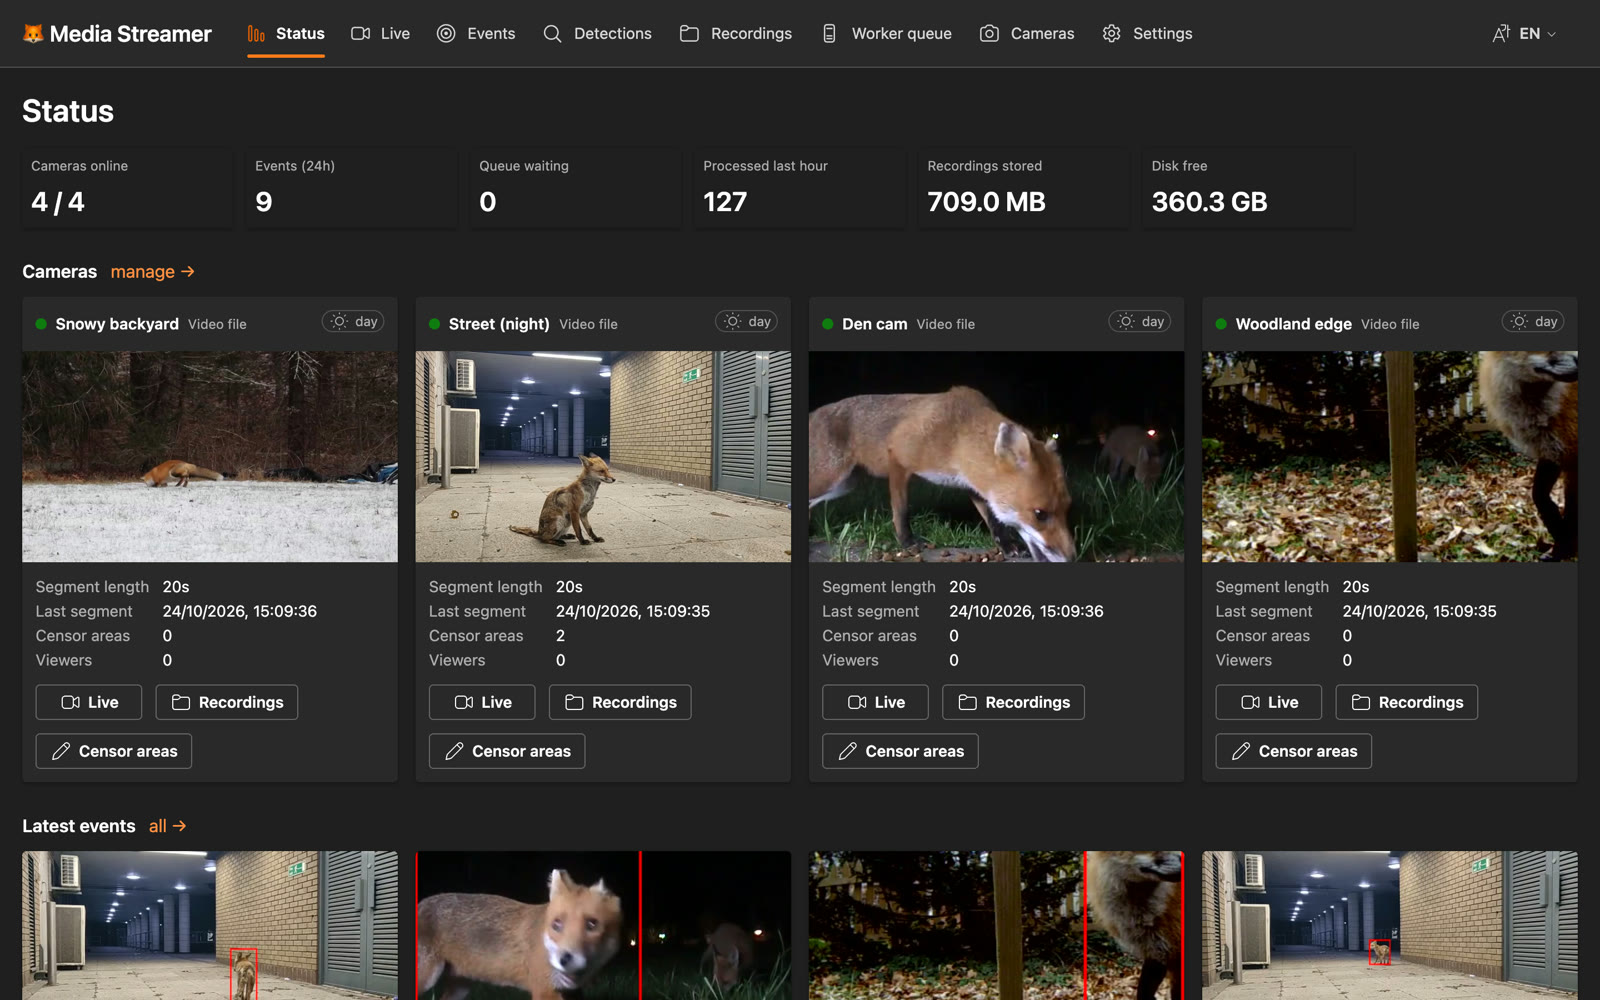
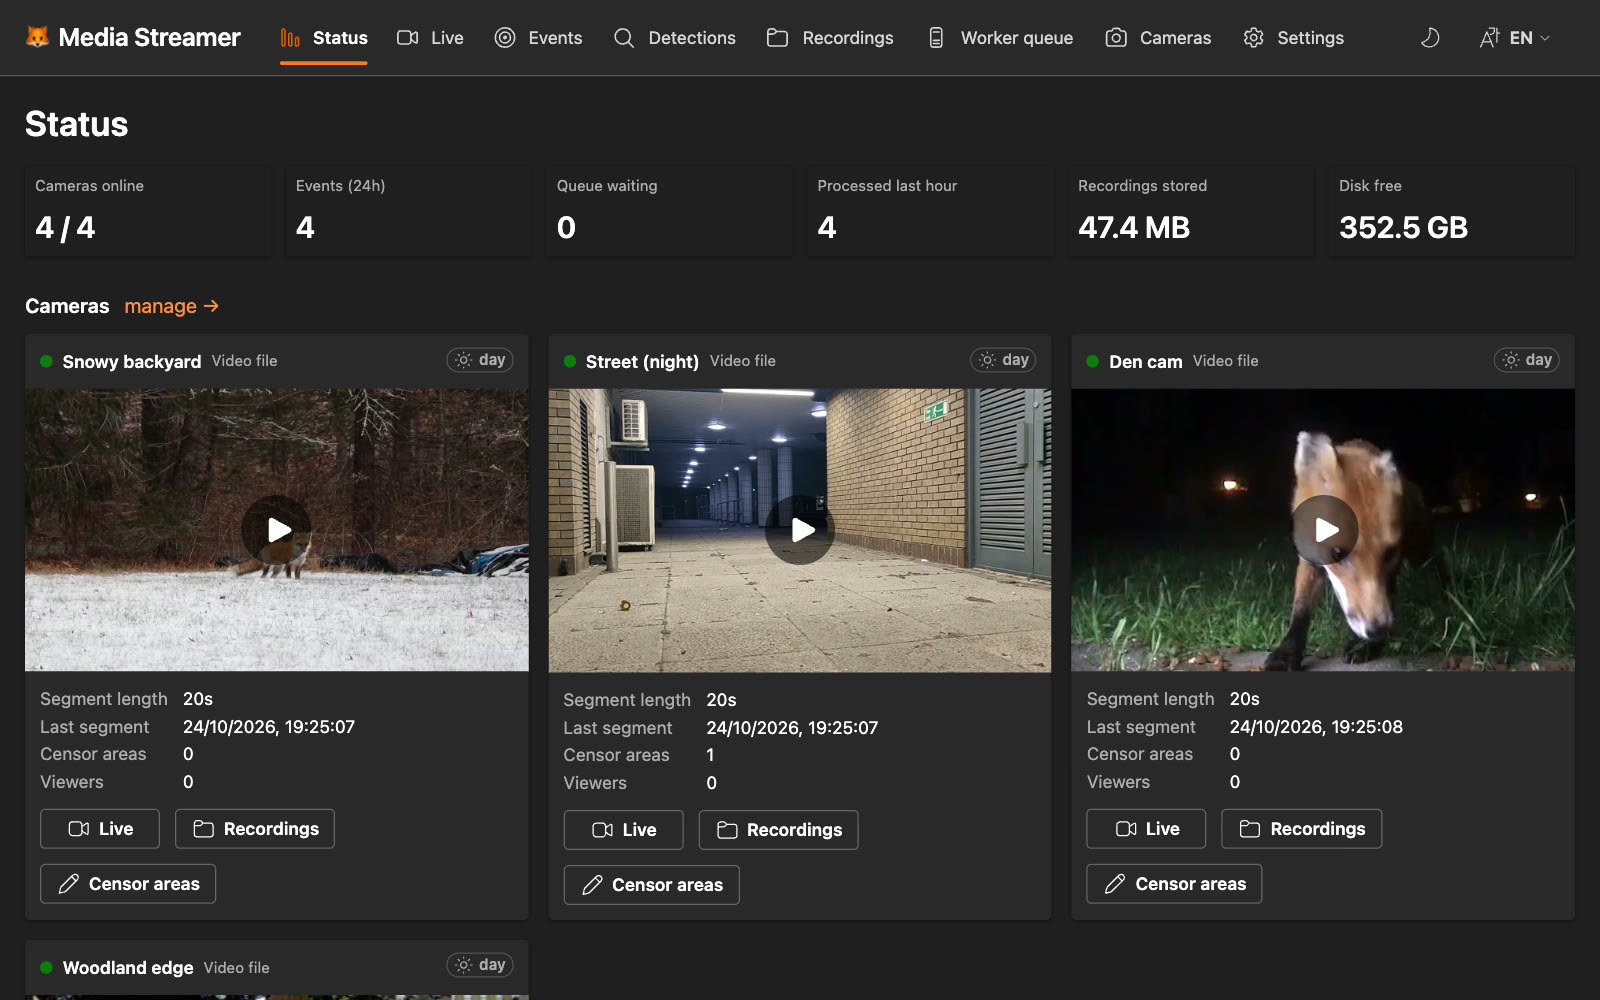
Add mise screenshots task and regenerate the README screenshots
scripts/screenshots.py starts a throwaway stack on its own ports and
data (sample fox clips as cameras, YOLO-World worker when installed,
else the dummy), pauses detection per camera once it has an event so
the looping clips settle into clips, then captures desktop and phone
pages in dark mode with the installed Chrome via Playwright.

Worker: report the model file name instead of its full path, and allow
MEDIA_WORKER_HOST to override the host shown on the queue page.

diff --git a/scripts/screenshots.py b/scripts/screenshots.py
@@ -1,0 +1,324 @@
+"""Regenerate the README screenshots (docs/screenshots/*.jpg) from a throwaway demo stack.
+
+    mise run screenshots            # or: uv run --with playwright python scripts/screenshots.py
+
+Starts MediaMTX, the server, ingest and a worker on their own ports with their own data
+(out/screenshots/), using the sample fox clips (`mise run setup:samples`) as cameras. The
+worker is YOLO-World when it is installed (`mise run setup:yolo`), else the dummy worker.
+Once enough events with clips exist, it captures the pages with the installed Google
+Chrome (or Playwright's Chromium) in dark mode, desktop and phone size, and stops it all.
+Your dev stack and its data are not touched.
+"""
+
+from __future__ import annotations
+
+import argparse
+import json
+import os
+import shutil
+import signal
+import subprocess
+import sys
+import tempfile
+import time
+import urllib.request
+from pathlib import Path
+
+ROOT = Path(__file__).resolve().parents[1]
+STACK = ROOT / "out" / "screenshots"
+SHOTS = ROOT / "docs" / "screenshots"
+BIN = ROOT / ".venv" / "bin"
+MODEL = ROOT / "out" / "models" / "yolov8s-worldv2.pt"
+PORT = 8780
+SERVER = f"http://localhost:{PORT}"
+# MediaMTX ports, shifted so the dev stack can keep running.
+MTX_PORTS = {":9997": ":19997", ":8554": ":18554", ":8888": ":18888", ":8889": ":18889",
+             ":8189": ":18189"}
+CAMERAS = [  # id, name, sample clip
+    ("backyard", "Snowy backyard", "fox-yard-day.mp4"),
+    ("street", "Street (night)", "fox-night-urban.mp4"),
+    ("den", "Den cam", "fox-family-cam.mp4"),
+    ("meadow", "Woodland edge", "fox-small.mp4"),
+]
+DESKTOP = {"viewport": {"width": 1280, "height": 800}, "device_scale_factor": 1.25}
+PHONE = {"viewport": {"width": 390, "height": 844}, "device_scale_factor": 1.5,
+         "is_mobile": True, "has_touch": True}
+
+
+def log(msg: str) -> None:
+    print(msg, flush=True)
+
+
+# --- demo stack ---------------------------------------------------------------------------
+
+def write_config() -> Path:
+    STACK.mkdir(parents=True)
+    mtx = (ROOT / "mediamtx" / "mediamtx.yml").read_text()
+    for old, new in MTX_PORTS.items():
+        mtx = mtx.replace(old, new)
+    # RTSP over TCP only: the default UDP ports (8000/8001) belong to the dev MediaMTX.
+    mtx += "\nrtspTransports: [tcp]\n"
+    (STACK / "mediamtx.yml").write_text(mtx)
+    cams = "\n".join(
+        f"  - {{id: {cid}, name: {json.dumps(name)}, "
+        f"source: {{type: file, path: {ROOT / 'samples' / clip}}}}}"
+        for cid, name, clip in CAMERAS)
+    config = STACK / "config.yaml"
+    config.write_text(f"""\
+data_dir: {STACK / 'data'}
+samples_dir: {ROOT / 'samples'}
+segment_seconds: 20
+mediamtx:
+  api_url: http://localhost:19997
+  rtsp_url: rtsp://localhost:18554
+  webrtc_public_url: http://localhost:18889
+  hls_public_url: http://localhost:18888
+cameras:
+{cams}
+profiles:
+  - id: wildlife
+    name: Wildlife
+    targets: [fox]
+    aliases: {{red fox: fox, vulpes vulpes: fox}}
+    min_confidence: 0.4
+    default: true
+events: {{settle_seconds: 20, pre_roll_seconds: 5, post_roll_seconds: 5}}
+location: {{latitude: 57.7, longitude: 11.97, country: SWE}}
+""")
+    return config
+
+
+class Stack:
+    def __init__(self) -> None:
+        self.procs: list[subprocess.Popen] = []
+        self.names: list[str] = []
+        self.env = {**os.environ, "MEDIA_STREAMER_CONFIG": str(STACK / "config.yaml"),
+                    "MEDIA_STREAMER_WEB_DIST": str(ROOT / "web" / "dist"), "TZ": "UTC"}
+
+    def start(self, name: str, args: list[str], cwd: Path = ROOT,
+              env: dict[str, str] | None = None) -> None:
+        out = (STACK / f"{name}.log").open("w")
+        self.names.append(name)
+        self.procs.append(subprocess.Popen(args, cwd=cwd, env=env or self.env, stdout=out,
+                                           stderr=subprocess.STDOUT, start_new_session=True))
+
+    def check(self) -> None:
+        """Fail fast when part of the stack died (e.g. a port in use)."""
+        for p, name in zip(self.procs, self.names, strict=True):
+            if p.poll() is not None:
+                tail = (STACK / f"{name}.log").read_text().strip().splitlines()[-3:]
+                raise SystemExit(f"{name} exited ({p.returncode}): " + " | ".join(tail))
+
+    def stop(self) -> None:
+        for p in reversed(self.procs):
+            if p.poll() is None:
+                os.killpg(p.pid, signal.SIGTERM)
+        deadline = time.monotonic() + 10
+        for p in self.procs:
+            try:
+                p.wait(timeout=max(0.1, deadline - time.monotonic()))
+            except subprocess.TimeoutExpired:
+                os.killpg(p.pid, signal.SIGKILL)
+
+
+def get(path: str):
+    with urllib.request.urlopen(SERVER + path, timeout=5) as r:
+        return json.loads(r.read())
+
+
+def put(path: str, body: dict) -> None:
+    req = urllib.request.Request(SERVER + path, data=json.dumps(body).encode(), method="PUT",
+                                 headers={"Content-Type": "application/json"})
+    urllib.request.urlopen(req, timeout=5).read()
+
+
+def wait_for(what: str, check, timeout: float, every: float = 3,
+             stack: Stack | None = None) -> None:
+    deadline = time.monotonic() + timeout
+    while time.monotonic() < deadline:
+        if stack:
+            stack.check()
+        try:
+            if check():
+                return
+        except OSError:
+            pass
+        time.sleep(every)
+    raise SystemExit(f"timed out waiting for {what}; see the logs in {STACK}")
+
+
+def worker_args() -> tuple[list[str], str]:
+    try:
+        import importlib.util
+
+        yolo = importlib.util.find_spec("ultralytics") is not None and MODEL.exists()
+    except ImportError:
+        yolo = False
+    if yolo:
+        return (["--detector", "ultralytics", "--model", str(MODEL)], "YOLO-World")
+    return (["--detector", "dummy", "--dummy-label", "fox", "--dummy-every", "1"],
+            "dummy (run `mise run setup:yolo` for real detections)")
+
+
+def port_in_use(port: int) -> bool:
+    import socket
+
+    with socket.socket() as sock:
+        return sock.connect_ex(("127.0.0.1", port)) == 0
+
+
+def run_stack(stack: Stack, min_events: int, timeout: float) -> None:
+    busy = [p for p in (PORT, 19997, 18554) if port_in_use(p)]
+    if busy:
+        raise SystemExit(f"port(s) {busy} in use: is an earlier screenshots run still going?")
+    mediamtx = ROOT / ".tools" / "mediamtx"
+    if not mediamtx.exists():
+        raise SystemExit("MediaMTX missing: mise run setup:mediamtx")
+    missing = [clip for _, _, clip in CAMERAS if not (ROOT / "samples" / clip).exists()]
+    if missing:
+        raise SystemExit(f"sample clips missing ({', '.join(missing)}): mise run setup:samples")
+    if not (ROOT / "web" / "dist" / "index.html").exists():
+        raise SystemExit("web UI not built: mise run build")
+
+    stack.start("mediamtx", [str(mediamtx), str(STACK / "mediamtx.yml")], cwd=STACK)
+    stack.start("server", [str(BIN / "media-streamer"), "serve", "--port", str(PORT)])
+    wait_for("the server", lambda: get("/api/status") is not None, 60, every=1, stack=stack)
+    stack.start("ingest", [str(BIN / "media-streamer"), "ingest"])
+    token = subprocess.run([str(BIN / "media-streamer"), "worker-token", "gpu-box",
+                            "--tags", "gpu"], env=stack.env, check=True, capture_output=True,
+                           text=True).stdout.strip()
+    args, kind = worker_args()
+    log(f"worker: {kind}")
+    worker_env = {**stack.env, "MEDIA_WORKER_TOKEN": token, "MEDIA_WORKER_HOST": "gpu-box"}
+    stack.start("worker", [str(BIN / "media-worker"), "--server", SERVER, *args],
+                cwd=MODEL.parent if MODEL.parent.exists() else ROOT, env=worker_env)
+    # A censor area to show in the mask editor.
+    put("/api/cameras/street/mask", {"rects": [[0.0, 0.0, 0.34, 0.12]]})
+
+    # The sample clips loop, so a fox is on screen nearly all the time and an event would
+    # grow forever, never settling into a clip. Once a camera's event has a few detections,
+    # pause detection on it (no new jobs), so the event settles and its clip is built.
+    log(f"recording until {min_events} cameras have an event with a clip (a few minutes)")
+    paused: set[str] = set()
+    last = [-1]
+
+    def enough() -> bool:
+        events = get("/api/events?limit=100")
+        for e in events:
+            if e["camera_id"] not in paused and e["detection_count"] >= 3:
+                put(f"/api/cameras/{e['camera_id']}/profiles", {"profiles": []})
+                paused.add(e["camera_id"])
+        ready = {e["camera_id"] for e in events if e.get("clip_url") and not e["building"]}
+        if len(ready) != last[0]:
+            last[0] = len(ready)
+            log(f"  {len(ready)}/{min_events} cameras")
+        return len(ready) >= min_events
+
+    wait_for("events", enough, timeout, every=5, stack=stack)
+    for cam in paused:  # back to the default profiles (the profiles screenshot shows them)
+        put(f"/api/cameras/{cam}/profiles", {"profiles": None})
+
+
+# --- capture ------------------------------------------------------------------------------
+
+def best_detection() -> dict:
+    dets = [d for d in get("/api/detections?only_targets=true&limit=500") if d.get("bbox")]
+    if not dets:
+        raise SystemExit("no target detections to show")
+    return max(dets, key=lambda d: d["confidence"])
+
+
+def to_jpg(png: Path, name: str) -> None:
+    subprocess.run(["ffmpeg", "-v", "error", "-y", "-i", str(png), "-q:v", "3",
+                    str(SHOTS / f"{name}.jpg")], check=True)
+
+
+def settle(page) -> None:
+    """Wait until the page's images (thumbnails, snapshots) have loaded."""
+    page.wait_for_load_state("load")
+    page.wait_for_timeout(1200)
+    page.wait_for_function(
+        "[...document.images].every(i => i.complete)", timeout=20_000)
+    page.wait_for_timeout(600)
+
+
+def capture(tmp: Path) -> list[str]:
+    from playwright.sync_api import sync_playwright
+
+    det = best_detection()
+    shots: list[str] = []
+
+    def shot(page, name: str, path: str, element: str | None = None, prepare=None) -> None:
+        page.goto(SERVER + path)
+        settle(page)
+        if prepare:
+            prepare(page)
+        png = tmp / f"{name}.png"
+        if element:
+            page.locator(element).screenshot(path=str(png))
+        else:
+            page.screenshot(path=str(png))
+        to_jpg(png, name)
+        shots.append(name)
+        log(f"  {name}.jpg")
+
+    def add_worker(page) -> None:
+        page.get_by_role("button", name="Add worker").click()
+        dialog = page.get_by_role("dialog")
+        dialog.get_by_role("textbox").first.fill("garage-pc")
+        dialog.get_by_role("button", name="Create token").click()
+        page.wait_for_timeout(800)
+
+    with sync_playwright() as p:
+        try:
+            browser = p.chromium.launch(channel="chrome")
+        except Exception:  # noqa: BLE001 - no Google Chrome: Playwright's own Chromium
+            browser = p.chromium.launch()
+        init = ("localStorage.setItem('media-streamer.lang', 'en');"
+                "localStorage.setItem('media-streamer.theme', 'dark');")
+        desk = browser.new_context(color_scheme="dark", **DESKTOP)
+        desk.add_init_script(init)
+        page = desk.new_page()
+        shot(page, "dashboard", "/")
+        shot(page, "events", "/events")
+        shot(page, "detections", f"/detections?selected={det['id']}")
+        shot(page, "recordings", f"/recordings?selected={det['segment_id']}")
+        shot(page, "mask-editor", "/cameras/street/mask")
+        shot(page, "profiles", "/cameras#profiles", element="section#profiles")
+        shot(page, "queue", "/queue")
+        phone = browser.new_context(color_scheme="dark", **PHONE)
+        phone.add_init_script(init)
+        page = phone.new_page()
+        shot(page, "mobile-events", "/events")
+        shot(page, "mobile-detections", f"/detections?selected={det['id']}")
+        shot(page, "add-worker", "/queue", prepare=add_worker)
+        browser.close()
+    return shots
+
+
+def main() -> None:
+    ap = argparse.ArgumentParser(description=__doc__.splitlines()[0])
+    ap.add_argument("--min-events", type=int, default=len(CAMERAS),
+                    help="cameras that need an event with a clip first")
+    ap.add_argument("--timeout", type=float, default=900, help="seconds to wait for events")
+    ap.add_argument("--keep", action="store_true", help="leave out/screenshots/ for debugging")
+    args = ap.parse_args()
+
+    if STACK.exists():
+        shutil.rmtree(STACK)
+    write_config()
+    stack = Stack()
+    try:
+        run_stack(stack, args.min_events, args.timeout)
+        SHOTS.mkdir(parents=True, exist_ok=True)
+        with tempfile.TemporaryDirectory() as tmp:
+            shots = capture(Path(tmp))
+        log(f"wrote {len(shots)} screenshots to {SHOTS.relative_to(ROOT)}")
+    finally:
+        stack.stop()
+        if not args.keep:
+            shutil.rmtree(STACK, ignore_errors=True)
+
+
+if __name__ == "__main__":
+    sys.exit(main())

diff --git a/worker/src/media_worker/cli.py b/worker/src/media_worker/cli.py
@@ -147,7 +147,9 @@ def main() -> None:
         sys.exit("ffmpeg not found on PATH (run `media-worker doctor` for install hints)")
     graceful_signals()
     detector = create_detector(args)
-    info = {**detector.info(), "version": __version__, "host": platform.node(),
+    # MEDIA_WORKER_HOST: what the queue page shows as host (e.g. for demos and screenshots).
+    host = os.environ.get("MEDIA_WORKER_HOST") or platform.node()
+    info = {**detector.info(), "version": __version__, "host": host,
             "python": platform.python_version(), "platform": environment()}
     if gpu := gpu_summary():
         info["gpu"] = gpu

diff --git a/worker/src/media_worker/detectors/ultralytics_det.py b/worker/src/media_worker/detectors/ultralytics_det.py
@@ -14,6 +14,7 @@ Note: Ultralytics is AGPL-3.0.
 
 from __future__ import annotations
 
+from pathlib import Path
 from typing import Any
 
 from ..frames import Frame
@@ -35,7 +36,8 @@ class UltralyticsDetector(Detector):
         self.conf = conf
         self.batch = batch
         self.device = device
-        self.name = f"ultralytics:{model}"
+        # The weights file, not its path (which may be long and personal).
+        self.name = f"ultralytics:{Path(model).name}"
 
     def info(self) -> dict[str, Any]:
         classes = "from profile" if self.open_vocabulary else "model default"

diff --git a/README.md b/README.md
@@ -246,6 +246,7 @@ detection profiles, censor areas and worker tokens can also be managed in the UI
 | `check` | ruff, oxlint, typecheck, oxfmt and all tests |
 | `doctor` | check ffmpeg, GPU, detectors and the connection to the server |
 | `s3:local` | a local S3 server to try `storage.s3` |
+| `screenshots` | regenerate `docs/screenshots` from a throwaway demo stack (sample clips, YOLO-World if installed) |
 | `docker:up`, `docker:test` | Docker stacks (the test stack runs next to dev on :18000) |
 | `reset:events`, `reset:detections`, `reset:queue`, … | delete one kind of data, keep the rest |
 | `reset`, `clean:all` | wipe all data – back to a fresh checkout |
